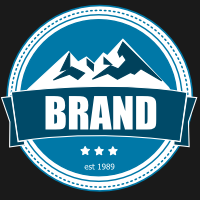
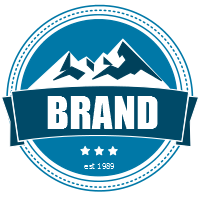
Update
Changed some of the graphic elements and portfolio section.

diff --git a/index.html b/index.html
@@ -1,1 +1,1 @@
-<!DOCTYPE html><html lang="en"><head><meta name="google-site-verification" content="jx8Xsi3TqBhpuDMPpcE0x-hzks85zkFdfdd-6lC8_Zw" /><meta charset="utf-8"><meta http-equiv="x-ua-compatible" content="ie=edge"><meta name="viewport" content="width=device-width,initial-scale=1"><link rel="icon" type="image/x-icon" href="img/favicon.png?"><meta name="description" content="Sumayah Almohanna: Web Developer / Graphic Designer"><meta name="author" content="Sumayah Almohanna"><meta name="robots" content="noimageindex"><meta name="googlebot" content="noimageindex"><title>Sumayah Almohanna: Web Developer / Graphic Designer</title><link href="http://fonts.googleapis.com/css?family=Arvo" rel="stylesheet" type="text/css"><link href="http://fonts.googleapis.com/css?family=PT+Sans" rel="stylesheet" type="text/css"><link rel="stylesheet" href="css/bootstrap.min.css"><link rel="stylesheet" type="text/css" href="css/styles.min.css"></head><body><div class="container-fluid"><div class="row push-down-max black-row"><div class="col-sm-6"><img class="img-responsive img-center logo" src="img/logoWhite.svg"></div><div class="col-sm-6 text-right push-down-min"><h2 class="bold-text arvo">Sumayah Almohanna</h2><h3 class="pt-sans"><small>Front-end Developer | Graphic Designer</small></h3></div></div><div class="row white-row center-text"><img class="col-sm-4 img-responsive img-center about-pic" src="img/me.jpg" alt="A picture of my face."><div class="col-sm-8"><h3 class="bold-text h3-text">About Sumayah</h3></div><div class="col-sm-8"><p class="p-text">I graduated from Eastern Washington University with a BA in Computer Science and a minor in Web Development. Since graduating, I have focused on enhancing my web development and graphic design skill set. I am constantly in a state of learning and I love what I do!</p></div></div><hr><div class="row white-row center-text"><div class="col-sm-12"><h3 class="bold-text arvo center-col push-up">Services:</h3></div><div class="col-sm-4 center-col"><img class="img-responsive" src="img/box1.png" alt="Front-End Development."><h4 class="h4-text">Front-end Development</h4><ul class="ul-text"><li>HTML</li><li>CSS</li><li>JavaScript/jQuery</li><li>Responsive Web Design</li></ul></div><div class="col-sm-4 center-col"><img class="img-responsive" src="img/box2.png" alt="Responsive Web Design."><h4 class="h4-text">Graphic Design</h4><ul class="ul-text"><li>Logos</li><li>Bussiness Cards</li><li>Posters/flyers</li></ul></div><div class="col-sm-4 center-col"><img class="img-responsive" src="img/box3.png" alt="General Consulting."><h4 class="h4-text">General Consulting</h4><ul class="ul-text"><li>UX Design Reviews</li><li>Website Performance Reviews</li><li>Search Engine Optimization</li></ul></div></div><div class="row white-row"><div class="col-sm-12"><h3 class="bold-text arvo center-col push-up">Portfolio:</h3></div><div class="col-sm-6 center-col"><a href="Prototypes/peanuts/index.html" target="_blank"><img class="portfolio" src="img/peanuts.JPG" alt="peanuts"></a><h4 class="h4-text">Peanuts</h4></div><div class="col-sm-6 center-col"><a href="Prototypes/giraffe/index.html" target="_blank"><img class="portfolio" src="img/giraffe.JPG" alt="giraffe"></a><h4 class="h4-text">Giraffe</h4></div></div><div class="row black-row"><footer class="footer"><div class="col-sm-6"><h3>Contact Me:</h3><h4>sumayahabdullah@gmail.com</h4></div><div class="col-sm-6"><h5 class="push-down-max push-right">Coded with <span class="glyphicon glyphicon-heart"></span> by Sumayah Almohanna</h5></div></footer></div></div><script src="http://code.jquery.com/jquery.min.js"></script><script type="text/javascript" src="js/bootstrap.min.js"></script><script type="text/javascript" src="js/script.min.js"></script></body></html>
+<!DOCTYPE html><html lang="en"><head><meta charset="utf-8"><meta http-equiv="x-ua-compatible" content="ie=edge"><meta name="viewport" content="width=device-width,initial-scale=1"><link rel="icon" type="image/x-icon" href="img/favicon.png?"><meta name="description" content="Sumayah Almohanna: Web Developer / Graphic Designer"><meta name="author" content="Sumayah Almohanna"><meta name="robots" content="noimageindex"><meta name="googlebot" content="noimageindex"><title>Sumayah Almohanna: Web Developer / Graphic Designer</title><link href="http://fonts.googleapis.com/css?family=Arvo" rel="stylesheet" type="text/css"><link href="http://fonts.googleapis.com/css?family=PT+Sans" rel="stylesheet" type="text/css"><link rel="stylesheet" href="css/bootstrap.min.css"><link rel="stylesheet" type="text/css" href="css/styles.css"></head><body><div class="container-fluid"><div class="row push-down-max black-row"><div class="col-sm-6"><img class="img-responsive img-center logo" src="img/logoWhite.svg"></div><div class="col-sm-6 text-right push-down-min"><h2 class="bold-text arvo">Sumayah Almohanna</h2><h3 class="pt-sans"><small>Front-end Developer | Graphic Designer</small></h3></div></div><div class="row white-row center-text"><img class="col-sm-4 img-responsive img-center about-pic" src="img/me.jpg" alt="A picture of my face."><div class="col-sm-8"><h3 class="bold-text h3-text">About Sumayah</h3></div><div class="col-sm-8"><p class="p-text">I graduated from Eastern Washington University with a BA in Computer Science and a minor in Web Development. Since graduating, I have focused on enhancing my web development and graphic design skill set. I am constantly in a state of learning and I love what I do!</p></div></div><hr><div class="row white-row center-text"><div class="col-sm-12"><h3 class="bold-text arvo center-col push-up">Services:</h3></div><div class="col-sm-4 center-col"><img class="img-responsive" src="img/box1.png" alt="Front-End Development."><h4 class="h4-text">Front-end Development</h4><ul class="ul-text"><li>HTML</li><li>CSS</li><li>JavaScript/jQuery</li><li>Responsive Web Design</li></ul></div><div class="col-sm-4 center-col"><img class="img-responsive" src="img/box2.png" alt="Responsive Web Design."><h4 class="h4-text">Graphic Design</h4><ul class="ul-text"><li>Logos</li><li>Bussiness Cards</li><li>Posters/flyers</li></ul></div><div class="col-sm-4 center-col"><img class="img-responsive" src="img/box3.png" alt="General Consulting."><h4 class="h4-text">General Consulting</h4><ul class="ul-text"><li>UX Design Reviews</li><li>Website Performance Reviews</li><li>Search Engine Optimization</li></ul></div></div><div class="row white-row"><div class="col-sm-12"><h3 class="bold-text arvo center-col push-up">Portfolio:</h3></div><div class="col-sm-6 center-col"><a href="Prototypes/peanuts/index.html" target="_blank"><img class="portfolio" src="img/peanuts.JPG" alt="peanuts"></a></div><div class="col-sm-6 center-col"><a href="Prototypes/giraffe/index.html" target="_blank"><img class="portfolio" src="img/giraffe.JPG" alt="giraffe"></a></div></div><div class="row black-row"><footer class="footer"><div class="col-sm-6"><h3>Contact Me:</h3><h4>sumayahabdullah@gmail.com</h4></div><div class="col-sm-6"><h5 class="push-down-max push-right">Coded with <span class="glyphicon glyphicon-heart"></span> by Sumayah Almohanna</h5></div></footer></div></div><script src="http://code.jquery.com/jquery.min.js"></script><script type="text/javascript" src="js/bootstrap.min.js"></script><script type="text/javascript" src="js/script.js"></script></body></html>

diff --git a/css/styles.min.css b/css/styles.min.css
@@ -1,1 +1,1 @@
-.bold-text,.circle-qoute,.h4-text{font-weight:700}.center-text,.circle-qoute{margin-left:auto;margin-right:auto}.black-row{background-color:#111;color:#fff;padding:6% 5%}.white-row{background-color:#fff;color:#222;padding:6% 5%}.push-down-min{padding-top:20px}.push-down-max{padding-top:40px}.push-up{padding-bottom:20px}.push-right{text-align:right}.portfolio{width:470px;height:260px}.footer{font-family:'PT Sans',Helvetica,Arial,sans-serif;color:#0078A7}.center-text{text-align:left}.h3-text{font-family:Arvo,Georgia,Times,serif;font-size:3.2em}.h4-text,.p-text,.p-text-small,.ul-text{font-family:'PT Sans',Helvetica,Arial,sans-serif}.h4-text{font-size:1.4em}.p-text{font-size:1.5em}.p-text-small{font-size:1.4em}.ul-text{font-size:1.3em;list-style:none}.arvo{font-family:Arvo,Georgia,Times,serif;font-size:2.3em}.formError,.pt-sans{font-family:'PT Sans',Helvetica,Arial,sans-serif}.pt-sans{font-size:2em}.about-pic{max-height:319px;max-width:245px}.formError{color:red;text-align:center;visibility:hidden}.circle-qoute{background-color:#00A5E7;border-radius:60%;color:#fff;font-size:3em;height:200px;padding-top:70px;text-align:center;width:200px}@media(max-width:1100px){.portfolio{width:340px;height:225px}}@media(max-width:842px){.arvo{font-size:2em}.pt-sans{font-size:1.8em}.portfolio{width:325px;height:225px}}@media(max-width:767px){.h3-text{font-size:3em}.ul-text{font-size:1.2em}.text-right{text-align:center}.img-center{margin-left:auto;margin-right:auto}.black-row,.white-row{padding-left:0;padding-right:0}.push-right{text-align:left}.center-col{margin:15px 0 15px 20%}}@media(max-width:460px){.logo{height:120px;width:120px}.center-col{margin:10px 7%}.h3-text{font-size:2.1em}.h4-text{font-size:1.3em}.ul-text{font-size:1.1em}.p-text,.p-text-small{font-size:1.2em}.portfolio{width:218px;height:195px}}@media(max-width:387px){.arvo{font-size:1.8em}.pt-sans{font-size:1.6em}}
+.bold-text,.circle-qoute,.h4-text{font-weight:700}.center-text,.circle-qoute{margin-left:auto;margin-right:auto}.black-row{background-color:#111;color:#fff;padding:6% 5%}.white-row{background-color:#fff;color:#222;padding:6% 5%}.push-down-min{padding-top:20px}.push-down-max{padding-top:40px}.push-up{padding-bottom:20px}.push-right{text-align:right}.portfolio{width:470px;height:260px}.portfolio:hover{border:4px solid #0078A7}.footer{font-family:'PT Sans',Helvetica,Arial,sans-serif;color:#0078A7}.center-text{text-align:left}.h3-text{font-family:Arvo,Georgia,Times,serif;font-size:3.2em}.h4-text,.p-text,.p-text-small,.ul-text{font-family:'PT Sans',Helvetica,Arial,sans-serif}.h4-text{font-size:1.4em}.p-text{font-size:1.5em}.p-text-small{font-size:1.4em}.ul-text{font-size:1.3em;list-style:none}.arvo{font-family:Arvo,Georgia,Times,serif;font-size:2.3em}.formError,.pt-sans{font-family:'PT Sans',Helvetica,Arial,sans-serif}.pt-sans{font-size:2em}.about-pic{max-height:319px;max-width:245px}.formError{color:red;text-align:center;visibility:hidden}.circle-qoute{background-color:#00A5E7;border-radius:60%;color:#fff;font-size:3em;height:200px;padding-top:70px;text-align:center;width:200px}@media(max-width:1100px){.portfolio{width:340px;height:225px}}@media(max-width:842px){.arvo{font-size:2em}.pt-sans{font-size:1.8em}.portfolio{width:325px;height:225px}}@media(max-width:767px){.h3-text{font-size:3em}.ul-text{font-size:1.2em}.text-right{text-align:center}.img-center{margin-left:auto;margin-right:auto}.black-row,.white-row{padding-left:0;padding-right:0}.push-right{text-align:left}.center-col{margin:15px 0 15px 20%}}@media(max-width:460px){.logo{height:120px;width:120px}.center-col{margin:10px 7%}.h3-text{font-size:2.1em}.h4-text{font-size:1.3em}.ul-text{font-size:1.1em}.p-text,.p-text-small{font-size:1.2em}.portfolio{width:218px;height:195px}}@media(max-width:387px){.arvo{font-size:1.8em}.pt-sans{font-size:1.6em}}
